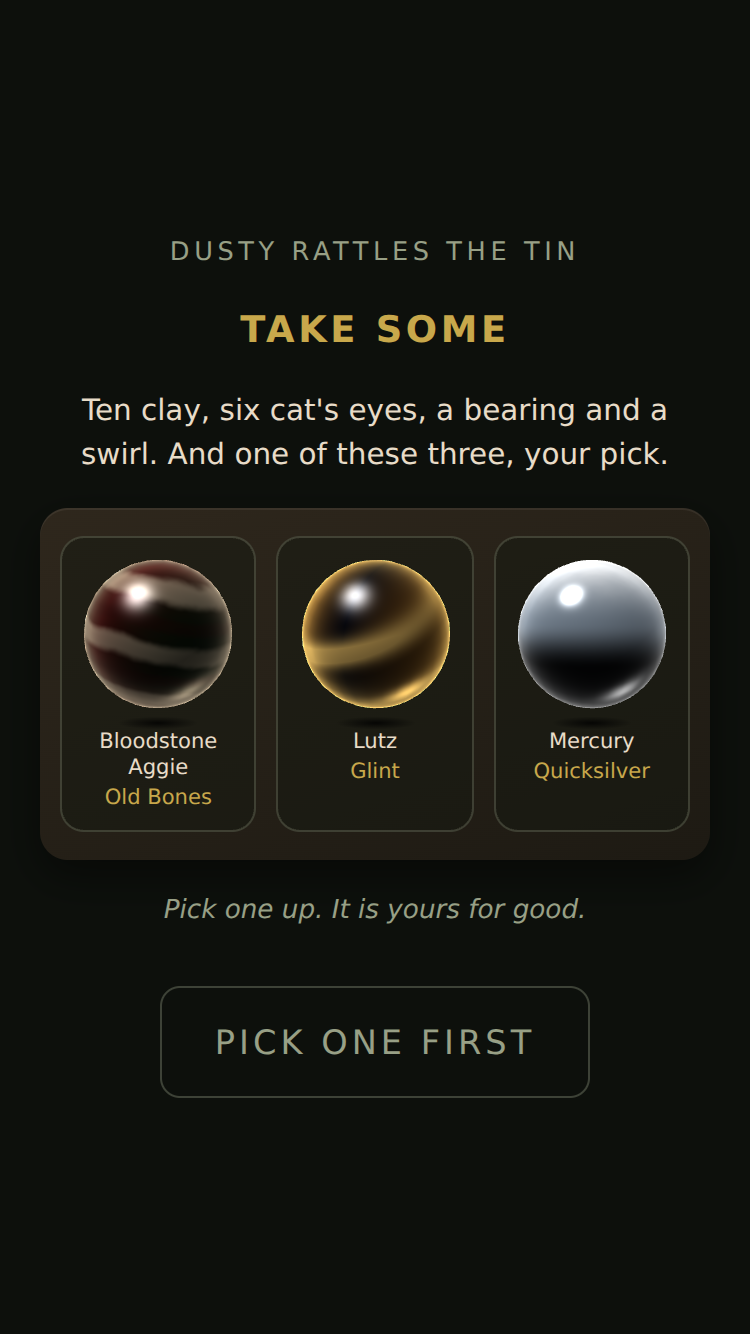
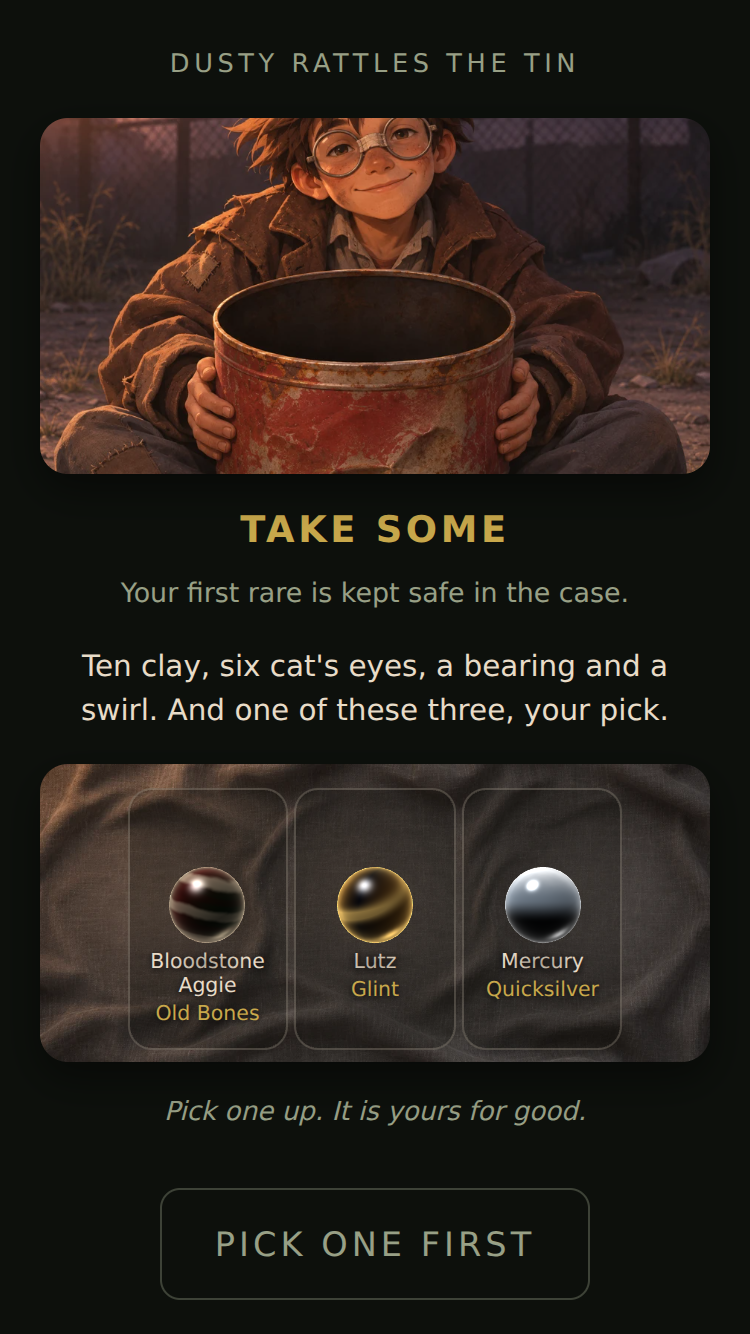
Keepsies m1 step 4: the people and the tin (Dusty's scene with the three rolling in inside the tin's mouth, then lying on Astra's cloth; Dusty at setup, kept it on his card, the 96 chip in the HUD; the bosses and twenty rung opponents registered) [skip ci]
Claude-Session: https://claude.ai/code/session_01Dzsq6YAnDeV2iLzTfA6x3K

diff --git a/satellites/keepsies/index.html b/satellites/keepsies/index.html
@@ -169,21 +169,45 @@ button.sticky{position:sticky;top:calc(-24px + env(safe-area-inset-top,0px));z-i
    marbles somebody put down in front of you. The cloth is the surface, the tiles
    are equal height so three names on three baselines do not stagger the row, and
    every marble has a shadow so none of them floats. */
-#heirlooms{display:flex;gap:10px;justify-content:center;align-items:stretch;width:100%;
-  max-width:21rem;padding:14px 10px;border-radius:14px;
-  background:linear-gradient(160deg,rgba(74,58,42,.55),rgba(46,36,26,.5));
-  box-shadow:inset 0 1px 0 rgba(232,220,200,.08),0 8px 20px rgba(0,0,0,.45)}
-#heirlooms button{position:relative;flex:1 1 0;width:auto;min-width:0;min-height:0;padding:6px 4px 8px;
+/* Astra's plates (step 4): a plate is her image as the box's background (main.js paints every [data-art]
+   through art(), so the one query reaches it), with her anchors as percentages of the shown part */
+.plate{position:relative;width:100%;max-width:23rem;border-radius:14px;overflow:hidden;
+  background-color:#1a1712;background-repeat:no-repeat;box-shadow:0 8px 20px rgba(0,0,0,.45)}
+#tinScene{aspect-ratio:900/480;background-size:100% auto;background-position:50% 50%}
+/* the mouth: 255, 288, 355 by 82 of 900 by 600, shown from row 60 (so 47.5 percent down) */
+#tinMouth{position:absolute;left:28.33%;top:47.5%;width:39.44%;height:17.08%;clip-path:ellipse(50% 50% at 50% 50%)}
+#tinMouth canvas{position:absolute;top:4%;width:auto;height:92%;aspect-ratio:1;margin-left:-15%}
+#tinMouth canvas.roll{animation:kpRoll .95s cubic-bezier(.2,.7,.25,1) both}
+@keyframes kpRoll{from{transform:translateX(-170%) rotate(-320deg)}to{transform:none}}
+/* the cloth: 900 by 600 shown from row 112 to 512, resting places at 225, 450, 675 by 312 (50 percent down),
+   a quarter of the plate apart, so each place is 24 percent wide; the live render fills Astra's 62 px radius
+   (13.8 percent of the plate) and her ground shadow lies under it */
+#heirlooms{aspect-ratio:900/400;background-size:100% auto;background-position:50% 56%}
+#heirlooms button{position:absolute;top:8%;width:24%;height:88%;min-width:0;min-height:48px;margin-left:-12%;padding:0 2px;
   display:flex;flex-direction:column;align-items:center;justify-content:flex-start;
-  border-radius:12px;border:1px solid rgba(152,160,134,.28);background:rgba(20,23,15,.5);
-  text-transform:none;letter-spacing:0;font-size:.66rem;line-height:1.25;color:var(--chalk)}
-#heirlooms canvas{display:block;width:84px;height:84px;margin:0 auto 6px;position:relative;z-index:1}
-/* a shadow under each one, so they sit on the cloth rather than over it */
-#heirlooms button::after{content:'';position:absolute;left:50%;top:88px;width:56px;height:9px;
-  margin-left:-28px;border-radius:50%;
-  background:radial-gradient(50% 50%,rgba(0,0,0,.8),rgba(0,0,0,0) 72%)}
+  border-radius:12px;border:1px solid rgba(232,220,200,.22);background:rgba(13,16,12,.28);
+  text-transform:none;letter-spacing:0;font-size:.64rem;line-height:1.15;color:var(--chalk)}
+#heirlooms button:nth-child(1){left:25%}
+#heirlooms button:nth-child(2){left:50%}
+#heirlooms button:nth-child(3){left:75%}
+#heirlooms canvas{display:block;width:57.4%;height:auto;aspect-ratio:1;margin:49% auto 3%;position:relative;z-index:1}
+/* a shadow under each one, so they sit on the cloth rather than over it (Astra's ground shadow) */
+#heirlooms .rest{position:absolute;left:50%;top:61%;width:56%;height:12%;margin-left:-28%;
+  background-size:100% 100%;background-repeat:no-repeat;opacity:.85}
 #heirlooms button.on{border-color:var(--brass);background:rgba(200,168,75,.16);
-  box-shadow:0 0 0 2px rgba(200,168,75,.5),0 8px 16px rgba(0,0,0,.55);transform:translateY(-5px)}
+  box-shadow:0 0 0 2px rgba(200,168,75,.5),0 8px 16px rgba(0,0,0,.55);transform:translateY(-4px)}
+#heirlooms span{text-shadow:0 1px 3px rgba(0,0,0,.9)}
+#tinSafe{margin:-8px 0 0;max-width:20rem;color:var(--muted);font-size:.84rem}
+@media (prefers-reduced-motion:reduce){#tinMouth canvas.roll{animation:none}}
+/* the faces: a brass ring, never a frame that competes with the marbles */
+.face{display:block;border-radius:50%;border:1px solid rgba(200,168,75,.6);background:#1a1712;object-fit:cover}
+/* ⛔ THE FACE ADDS NO HEIGHT. Play has to stay on a 375 by 667 screen (the render gate clicks it there), so
+   Dusty sits as a medallion at the start of the row, overflowing its line, not growing it */
+.row.opp{position:relative;padding-left:54px;align-items:center}
+#oppFace{position:absolute;left:0;top:50%;width:44px;height:44px;margin-top:-22px}
+#rsFace{width:96px;height:96px;margin:0 auto}
+.side.them{position:relative;padding-right:44px}
+#themFace{position:absolute;right:0;top:0;width:36px;height:36px}
 #heirlooms .kit{display:block;color:var(--brass);margin-top:2px}
 #heirSay{margin:0;min-height:2.4em;max-width:20rem;color:var(--muted);font-size:.82rem;line-height:1.45;font-style:italic}
 #tinSay{margin:0;max-width:20rem;color:var(--chalk);font-size:.92rem;line-height:1.45}
@@ -417,7 +441,7 @@ button.sticky{position:sticky;top:calc(-24px + env(safe-area-inset-top,0px));z-i
 <div id="setup" class="veil" hidden>
   <h2>Ringer</h2>
   <div class="card">
-    <div class="row"><span>Against</span><span id="oppName">Dusty Coyle</span></div>
+    <div class="row opp"><img id="oppFace" class="face" alt="" hidden><span>Against</span><span id="oppName">Dusty Coyle</span></div>
     <p id="oppLine">Beat everyone on his street. His street is small.</p>
   </div>
   <div id="hrRow"></div>
@@ -446,7 +470,7 @@ button.sticky{position:sticky;top:calc(-24px + env(safe-area-inset-top,0px));z-i
   <div id="lot" aria-hidden="true"></div>
   <div id="scores">
     <div class="side me"><span class="who" id="whoMe">You</span><span class="sockets" id="sockMe"></span></div>
-    <div class="side them"><span class="who" id="whoThem">Dusty</span><span class="sockets" id="sockThem"></span></div>
+    <div class="side them"><img id="themFace" class="face chip" alt="" hidden><span class="who" id="whoThem">Dusty</span><span class="sockets" id="sockThem"></span></div>
   </div>
   <div id="houseRules">keeps, slips, ten foot</div>
   <div id="say">Drag to place your shooter, then hold it and flick.</div>
@@ -527,9 +551,13 @@ button.sticky{position:sticky;top:calc(-24px + env(safe-area-inset-top,0px));z-i
      being destroyed. -->
 <div id="tin" class="veil" hidden>
   <p class="studio">Dusty rattles the tin</p>
+  <!-- Astra's scene (900 x 600, shown from row 60 to 540): the three live renders roll in inside the tin's
+       mouth (anchors.json dusty_tin_scene.mouth, an ellipse), then lie on the cloth -->
+  <div id="tinScene" class="plate" data-art="ui/dusty_tin_scene.webp" aria-hidden="true"><div id="tinMouth"></div></div>
   <h2>Take some</h2>
+  <p id="tinSafe">Your first rare is kept safe in the case.</p>
   <p id="tinSay">Ten clay, six cat's eyes, a bearing and a swirl. And one of these three, your pick.</p>
-  <div id="heirlooms"></div>
+  <div id="heirlooms" class="plate" data-art="ui/heirloom_cloth.webp"></div>
   <p id="heirSay"></p>
   <button id="tinTake" disabled>Pick one first</button>
 </div>
@@ -537,6 +565,7 @@ button.sticky{position:sticky;top:calc(-24px + env(safe-area-inset-top,0px));z-i
 <!-- The buy back offer. DESIGN 12: one offer, no negotiation UI. It is a card,
      not a screen, and it is the only place in the game with a countdown on it. -->
 <div id="ransom" class="veil" hidden>
+  <img id="rsFace" class="face kept" alt="" hidden>
   <p class="studio" id="rsHead">Dusty Coyle kept it</p>
   <div id="ransomArt"></div>
   <p class="cer-tier" id="rsTier"></p>

diff --git a/satellites/keepsies/src/render/portraits.js b/satellites/keepsies/src/render/portraits.js
@@ -1,0 +1,61 @@
+/**
+ * The people (Astra's pack v1, KEEPSIES_BUILD_PLAN.md step 4). Every face in the game comes through here,
+ * keyed by the design's ids (the boss ids are the ones marbles.json writes as a signature's boss).
+ *
+ * Two states each: 'ring' (across the ring from you) and 'kept_it' (quietly satisfied, never cruel: Astra's
+ * style guide), at 160 for a 160 px place (the 96 px state wherever a name is a chip). Only Dusty is drawn
+ * today; the other four bosses and the twenty rung opponents are registered for the ladder (K3) and drawn
+ * nowhere yet. The rung list is Astra's proposal (four rungs and the boss a league), not the design's five:
+ * that call is the Director's (DECISIONS 6).
+ */
+import { art } from './art.js?v=20260905a';
+
+const BOSS_FILE = {
+  dusty_coyle: 'dusty', marlene_knuckles_ito: 'marlene', the_pit_boss: 'pitboss',
+  old_ironsides: 'ironsides', the_curator: 'curator'
+};
+export const BOSSES = Object.keys(BOSS_FILE);
+
+/* the names the game prints, to their ids: a match carries a name, and the face must follow it */
+const BY_NAME = { 'Dusty Coyle': 'dusty_coyle', 'Marlene Ito': 'marlene_knuckles_ito', 'The Pit Boss': 'the_pit_boss',
+  'Old Ironsides': 'old_ironsides', 'The Curator': 'the_curator' };
+
+/** A boss's face: id (or the printed name), 'ring' or 'kept_it', 160 or 96. Null for anyone without one. */
+export function face(idOrName, state, size) {
+  const f = BOSS_FILE[idOrName] || BOSS_FILE[BY_NAME[idOrName]];
+  if (!f) return null;
+  return art('ui/boss_' + f + '_' + (state === 'kept_it' ? 'kept_it' : 'ring') + (size === 96 ? '_96' : '') + '.webp');
+}
+
+/* the twenty rung opponents on one 480 x 384 sheet, 96 px cells (Astra's catalog/opponents.json) */
+export const RUNG_SHEET = 'ui/rung_opponents_sheet.png';
+export const RUNG = [
+  { id: 'opponent_01', name: "Junie Bell", quirk: "Counts every bounce", cell: [0, 0, 96, 96], league: 1 },
+  { id: 'opponent_02', name: "Kit Mercer", quirk: "Keeps chalk in both pockets", cell: [96, 0, 96, 96], league: 1 },
+  { id: 'opponent_03', name: "Nia Brooks", quirk: "Never shoots the easy one", cell: [192, 0, 96, 96], league: 1 },
+  { id: 'opponent_04', name: "Theo Moss", quirk: "Wears a lucky hat", cell: [288, 0, 96, 96], league: 1 },
+  { id: 'opponent_05', name: "Ada Pike", quirk: "Remembers every lost marble", cell: [384, 0, 96, 96], league: 2 },
+  { id: 'opponent_06', name: "Ari Vale", quirk: "Polishes before every match", cell: [0, 96, 96, 96], league: 2 },
+  { id: 'opponent_07', name: "Dax Miller", quirk: "Claims the wind changed", cell: [96, 96, 96, 96], league: 2 },
+  { id: 'opponent_08', name: "Safiya Reed", quirk: "Plays one careful shot", cell: [192, 96, 96, 96], league: 2 },
+  { id: 'opponent_09', name: "Walt Finch", quirk: "Brings the same old pouch", cell: [288, 96, 96, 96], league: 3 },
+  { id: 'opponent_10', name: "Jules Hart", quirk: "Likes a crowded cross", cell: [384, 96, 96, 96], league: 3 },
+  { id: 'opponent_11', name: "Rae Carter", quirk: "Never blames the ring", cell: [0, 192, 96, 96], league: 3 },
+  { id: 'opponent_12', name: "Pippa Lane", quirk: "Collects only warm colors", cell: [96, 192, 96, 96], league: 3 },
+  { id: 'opponent_13', name: "Leon Ash", quirk: "Talks to the shooter", cell: [192, 192, 96, 96], league: 4 },
+  { id: 'opponent_14', name: "June Weller", quirk: "Keeps a handwritten ledger", cell: [288, 192, 96, 96], league: 4 },
+  { id: 'opponent_15', name: "Bo Park", quirk: "Practices the lag first", cell: [384, 192, 96, 96], league: 4 },
+  { id: 'opponent_16', name: "Gus Clay", quirk: "Trades stories after games", cell: [0, 288, 96, 96], league: 4 },
+  { id: 'opponent_17', name: "Imani West", quirk: "Never rushes the brace", cell: [96, 288, 96, 96], league: 5 },
+  { id: 'opponent_18', name: "Ren Cole", quirk: "Knows the shortest bank", cell: [192, 288, 96, 96], league: 5 },
+  { id: 'opponent_19', name: "Edie Shaw", quirk: "Always brings spare clay", cell: [288, 288, 96, 96], league: 5 },
+  { id: 'opponent_20', name: "Alex Wynn", quirk: "Asks for one more match", cell: [384, 288, 96, 96], league: 5 }];
+
+/** A rung opponent's face as a CSS background (the sheet and the cell's offset), or null. */
+export function rungFace(id, px) {
+  const o = RUNG.find(r => r.id === id);
+  if (!o) return null;
+  const k = (px || 96) / 96;
+  return { image: 'url(' + art(RUNG_SHEET) + ')', size: (480 * k) + 'px ' + (384 * k) + 'px',
+    position: (-o.cell[0] * k) + 'px ' + (-o.cell[1] * k) + 'px' };
+}

diff --git a/satellites/keepsies/src/main.js b/satellites/keepsies/src/main.js
@@ -40,6 +40,7 @@ import { tierMatchOk, matchTheirStake, escrow, settle, recoverOnBoot, potUp, cur
 import { makeRng } from './core/rng.js?v=20260905a';
 import { makeMarbleMaterial } from './render/marbleMesh.js?v=20260905a';
 import { art, loadIcons, ic } from './render/art.js?v=20260905a';
+import { face } from './render/portraits.js?v=20260905a';
 
 const $ = (id) => document.getElementById(id);
 const TEST = /[?&]keepsiestest=1/.test(location.search);
@@ -83,6 +84,8 @@ const LAY_WORD = { cross: 'The cross', x: 'The X', ring: 'The ring', bunch: 'The
 
 async function boot() {
   loadIcons();   // Astra's one sprite, fetched once and injected (render/art.js); a miss leaves the labels
+  // every plate in the page names its art in data-art; this is the one place its URL is made
+  for (const el of document.querySelectorAll('[data-art]')) el.style.backgroundImage = 'url(' + art(el.dataset.art) + ')';
   const res = await fetch('src/data/tuning.json?v=20260905a');
   if (!res.ok) throw new Error('tuning.json did not load: ' + res.status);
   G.tuning = await res.json();
@@ -271,8 +274,20 @@ function wireButtons() {
 
 /* ---------------------------------------------------------------- screens */
 
+/* the faces (render/portraits.js): Dusty across the ring at setup, kept it on his card, the 96 px chip in the
+   HUD; anyone without a face shows none, never a placeholder */
+function paintFaces() {
+  const name = ($('oppName') && $('oppName').textContent) || 'Dusty Coyle';
+  const set = (id, url) => { const el = $(id); if (!el) return; if (url) { if (el.dataset.src !== url) { el.src = url; el.dataset.src = url; } el.hidden = false; } else el.hidden = true; };
+  set('oppFace', face(name, 'ring', 160));
+  set('themFace', face(G.R ? (G.R.match.players[1] || {}).name : name, 'ring', 96));
+  const head = ($('rsHead') && $('rsHead').textContent) || '';
+  set('rsFace', face(head.replace(/ kept it$/, ''), 'kept_it', 160));
+}
+
 function showScreen(name) {
   G.screen = name;
+  if (name === 'setup' || name === 'match' || name === 'ransom') paintFaces();
   // a tester's under the floor camera (KEEPSIES_DEV.camera allowUnder) never outlives the screen it was asked on
   if (G.rig) G.rig.state.allowUnder = false;
   $('title').hidden = name !== 'title';
@@ -429,6 +444,13 @@ function openTin() {
   const wrap = $('heirlooms');
   wrap.textContent = '';
   const three = G.onboard.heirlooms(G.catalog);
+  /* ⛔ THE THREE ROLL IN INSIDE THE TIN, THEN LIE ON THE CLOTH (step 4). Each render is drawn once and the
+     same canvas moves from the tin's mouth (clipped to its ellipse, Astra's anchor) to its resting place, so
+     what you pick is the marble you watched arrive. Reduced motion: straight to the cloth. */
+  const mouth = $('tinMouth');
+  mouth.textContent = '';
+  const still = (G.save.settings && G.save.settings.reducedMotion) || (window.matchMedia && matchMedia('(prefers-reduced-motion: reduce)').matches);
+  const canv = [];
   G.thumbs.open(168);
   let i = 0;
   for (const e of three) {
@@ -437,7 +459,12 @@ function openTin() {
     b.id = 'heir-' + e.id;
     const c = document.createElement('canvas');
     c.width = c.height = 168;
+    const rest = document.createElement('span');
+    rest.className = 'rest';
+    rest.style.backgroundImage = 'url(' + art('env/ground_shadow.png') + ')';
+    b.appendChild(rest);
     b.appendChild(c);
+    canv.push({ c, b });
     const nm = document.createElement('span');
     nm.textContent = e.name;
     b.appendChild(nm);
@@ -450,6 +477,19 @@ function openTin() {
     G.thumbs.paint(c, e, i++);
   }
   G.thumbs.close();
+  if (!still) {
+    canv.forEach(({ c, b }, k) => {
+      b.style.visibility = 'hidden';
+      c.className = 'roll';
+      c.style.left = (20 + 30 * k) + '%';
+      c.style.animationDelay = (k * 0.14) + 's';
+      mouth.appendChild(c);
+    });
+    clearTimeout(G.tinRoll);
+    G.tinRoll = setTimeout(() => {
+      for (const { c, b } of canv) { c.className = ''; c.style.left = ''; c.style.animationDelay = ''; b.insertBefore(c, b.children[1] || null); b.style.visibility = ''; }
+    }, 1500);
+  }
   // before the first tap there is nothing to read but a name and a two word kit,
   // so the cloth says what it is asking
   $('heirSay').textContent = 'Pick one up. It is yours for good.';
